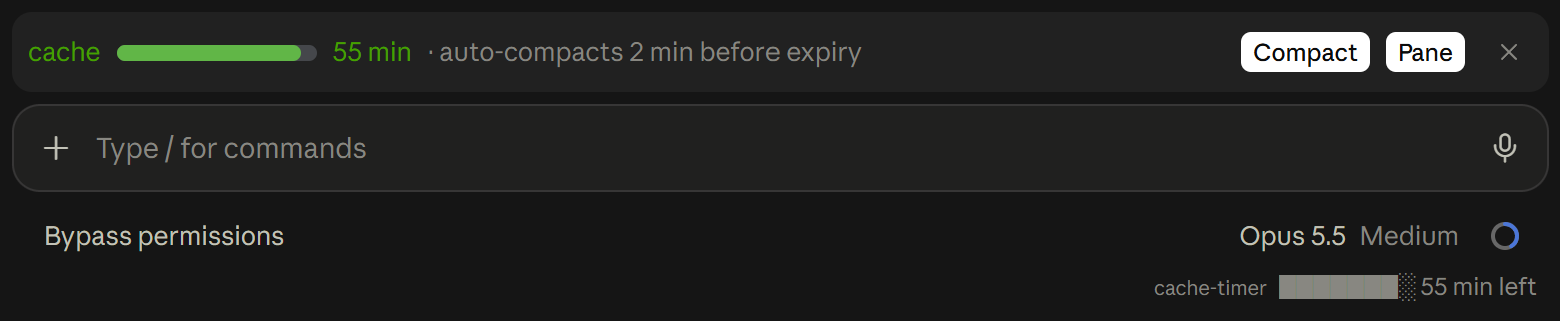
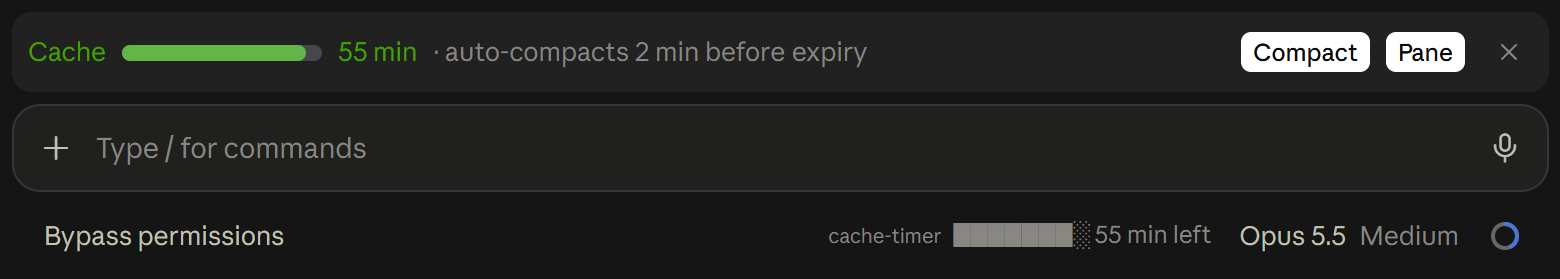
Refresh the band and social preview images for the Cache prefix
Both show the capitalized prefix, and the band image the status line on the model picker's row, where the desktop app now draws it. The README alt text says so.

diff --git a/README.md b/README.md
@@ -7,7 +7,7 @@
 
 **A prompt cache countdown and auto-compact for Claude Code. See how long your cache stays warm, and compact before it expires instead of paying to re-cache a long context.**
 
-![The cache-timer band above the prompt in the Claude desktop app, with the status line countdown below](docs/images/band-desktop.png)
+![The cache-timer band above the prompt in the Claude desktop app, with the status line countdown next to the model picker below the prompt](docs/images/band-desktop.png)
 
 Works in the Claude Code terminal and in the Claude desktop app's Code tab. English and Traditional Chinese interface.
 

diff --git a/README.zh-TW.md b/README.zh-TW.md
@@ -7,7 +7,7 @@
 
 **Claude Code 的 prompt 快取倒數與自動壓縮：一眼看出快取還剩多久，趁過期前先壓縮對話，不必花錢把一長段上下文重新寫進快取。**
 
-![Claude 桌面版提示框上方的 cache-timer 進度條，下方是狀態列倒數](docs/images/band-desktop.png)
+![Claude 桌面版提示框上方的 cache-timer 進度條，提示框下方的模型選單旁是狀態列倒數](docs/images/band-desktop.png)
 
 支援 Claude Code 終端機，以及 Claude 桌面版的 Code 分頁。介面有英文與繁體中文。
 
